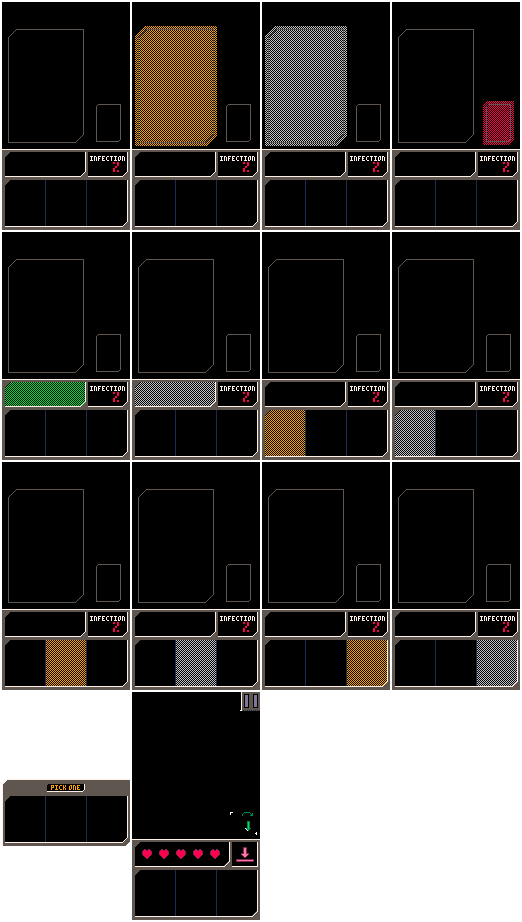
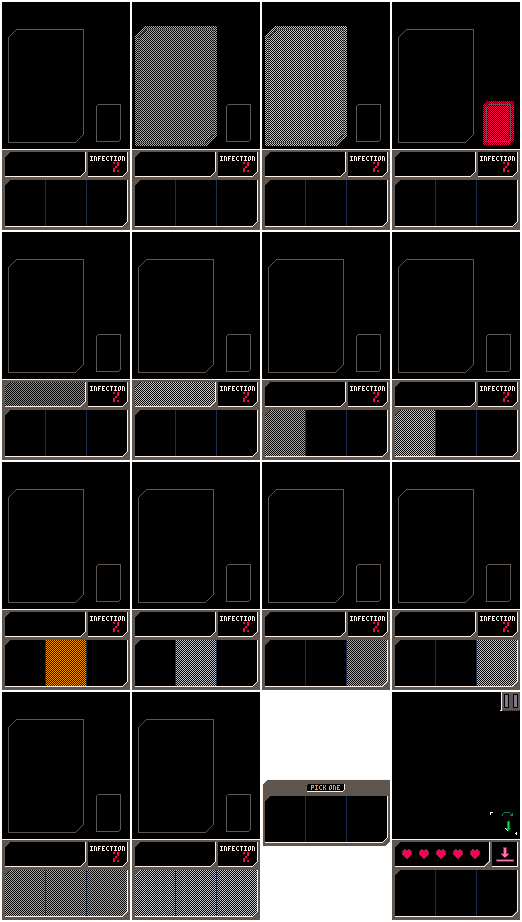
Swipe gestures replaced with drag-drop

Changed region(s): [[0.0, 0.7289, 1.0, 1.0], [0.4598, 0.7289, 0.4904, 0.7896]]

diff --git a/lib/src/game/engine/RenderingEngine.cpp b/lib/src/game/engine/RenderingEngine.cpp
@@ -294,6 +294,18 @@ void RenderingEngine::operator()(const AnimationHeal& a)
     window.draw(sprite);
 }
 
+void RenderingEngine::operator()(const AnimationReturnDraggedMainCard& a)
+{
+    const auto animationOffset =
+        (a.origin - getMainCardOffset()) * Easing::easeInOut(1.f - a.perc);
+    const auto scale = std::lerp(0.5f, 1.f, Easing::easeInOut(a.perc));
+
+    if (scene.deck.size() > 1)
+        renderCard(*(++scene.deck.begin()), getMainCardOffset());
+    renderCard(
+        scene.deck.front(), getMainCardOffset() + animationOffset, scale);
+}
+
 dgm::Camera RenderingEngine::createFullscreenCamera(
     const sf::Vector2f& currentResolution,
     const sf::Vector2f& desiredResolution)
@@ -331,6 +343,18 @@ dgm::Camera RenderingEngine::createFullscreenCamera(
 
 void RenderingEngine::renderWorld()
 {
+    const auto draggedInventoryCardIdx =
+        scene.dragDrop.value_or(DragDrop {})
+            .inventoryIdx.value_or(std::numeric_limits<size_t>::max());
+
+    for (auto&& [idx, card] : std::ranges::views::enumerate(scene.inventory))
+    {
+        if (!card) continue;
+        if (draggedInventoryCardIdx == static_cast<size_t>(idx)) continue;
+
+        renderCard(card.value(), getNthInventoryCardOffset(idx), 1.f / 3.f);
+    }
+
     if (!scene.discard.empty())
     {
         renderCardBack(
@@ -343,17 +367,12 @@ void RenderingEngine::renderWorld()
 
     renderTopDeckCard();
 
-    for (auto&& [idx, card] : std::ranges::views::enumerate(scene.inventory))
+    if (draggedInventoryCardIdx != std::numeric_limits<size_t>::max())
     {
-        if (!card) continue;
-
         renderCard(
-            card.value(),
-            scene.dragDrop.value_or(DragDrop {}).inventoryIdx.value_or(-1)
-                    == static_cast<size_t>(idx)
-                ? scene.dragDrop.value_or(DragDrop {}).position
-                : getNthInventoryCardOffset(idx),
-            1.f / 3.f);
+            *scene.inventory[draggedInventoryCardIdx],
+            scene.dragDrop.value_or(DragDrop {}).position,
+            1 / 3.f);
     }
 
     renderBoosterChoice();
@@ -442,7 +461,11 @@ void RenderingEngine::renderTopDeckCard()
     }
     else if (!scene.deck.empty())
     {
-        renderCard(scene.deck.front(), getMainCardOffset());
+        const auto isDraggingMainCard =
+            scene.dragDrop.value_or({}).draggingMainCard;
+        const auto offset =
+            isDraggingMainCard ? scene.dragDrop->position : getMainCardOffset();
+        renderCard(scene.deck.front(), offset, isDraggingMainCard ? 0.5f : 1.f);
     }
 }
 
@@ -469,13 +492,25 @@ void RenderingEngine::renderBoosterChoice()
 BackgroundType RenderingEngine::getAppropriateBackgroundType() const
 {
     const auto dragDrop = scene.dragDrop.value_or(DragDrop {});
-    const auto isDragRelevant = dragDrop.inventoryIdx.has_value();
     const auto dragPosition = dragDrop.position;
     const auto&& draggedCard =
         scene.inventory[dragDrop.inventoryIdx.value_or(0)].value_or(
             CardBuilder::createCard(CardType::Empty));
 
-    if (!isDragRelevant) return BackgroundType::Plain;
+    if (dragDrop.draggingMainCard)
+    {
+        if (dgm::Collision::basic(scene.trashBody, dragPosition))
+        {
+            return BackgroundType::Trash;
+        }
+        else if (dgm::Collision::basic(scene.wholeInventoryBody, dragPosition))
+        {
+            return scene.canTakeCard ? BackgroundType::InventoryWhole
+                                     : BackgroundType::InventoryWholeGreyed;
+        }
+
+        return BackgroundType::Plain;
+    }
 
     if (dgm::Collision::basic(scene.mainCardBody, dragPosition))
     {
@@ -491,7 +526,6 @@ BackgroundType RenderingEngine::getAppropriateBackgroundType() const
     }
     else if (dgm::Collision::basic(scene.trashBody, dragPosition))
     {
-
         return BackgroundType::Trash;
     }
 

diff --git a/lib/src/game/engine/GameRulesEngine.cpp b/lib/src/game/engine/GameRulesEngine.cpp
@@ -387,7 +387,8 @@ void GameRulesEngine::handleTake()
     else
     {
         audioEngine.playSound(SoundId::Error);
-        scene.activeAnimation = AnimationInvalidOperation();
+        scene.activeAnimation =
+            AnimationReturnDraggedMainCard(scene.dragDrop->position);
     }
 }
 
@@ -440,16 +441,14 @@ void GameRulesEngine::handleDragEnded()
 
     if (scene.dragDrop->draggingMainCard)
     {
-        const auto dir =
-            scene.dragDrop->position - scene.dragDrop->initialPosition;
-
-        const bool swipedDown = dir.y > 0.f && dir.y > std::abs(dir.x);
-        const bool swipedRight = dir.x > 0.f && dir.x > std::abs(dir.y);
-        if (swipedDown)
-            handleTake();
-        else if (swipedRight)
+        if (dgm::Collision::basic(scene.trashBody, scene.dragDrop->position))
             handleSkip();
-
+        else if (dgm::Collision::basic(
+                     scene.wholeInventoryBody, scene.dragDrop->position))
+            handleTake();
+        else
+            scene.activeAnimation =
+                AnimationReturnDraggedMainCard(scene.dragDrop->position);
         return;
     }
 
@@ -628,7 +627,9 @@ GameRulesEngine::getEventAfterAnimationEnded(const Animation& animation)
             [](const AnimationTrashMainCard&) -> std::optional<GameEvent>
             { return MainCardTrashedGameEvent(); },
             [](const AnimationHeal&) -> std::optional<GameEvent>
-            { return std::nullopt; } },
+            { return std::nullopt; },
+            [](const AnimationReturnDraggedMainCard&)
+                -> std::optional<GameEvent> { return std::nullopt; } },
         animation);
 }
 

diff --git a/lib/private_include/localization/EnLocalization.hpp b/lib/private_include/localization/EnLocalization.hpp
@@ -83,13 +83,21 @@ const std::map<StringId, StringViewType> EN_LOCALIZATION = {
     // How to play
     { Prev, "prev" },
     { Next, "next" },
-    { SkipText, "swipe right to skip card you can't deal with right now." },
+    { SkipText,
+      "drag the main card over discard to skip it. beware - enemies might "
+      "attack you "
+      "when they are skipped!" },
     { TakeText,
-      "swipe down to take card into your inventory. some cards automatically "
-      "combine if there is no space left." },
+      "drag the main card over your inventory to pick it up. certain cards "
+      "might "
+      "automatically combine if there is no space left." },
     { InventoryText,
       "you can combine cards in your inventory, use them on the main card, "
       "heal yourself, or put the inventory card back into deck." },
     { VaccineText,
       "find and use the vaccine on yourself to heal the infection!" },
+    { DiamondsText,
+      "diamonds on weapons indicate damage, amount of hitpoints healed on "
+      "healing cards and both health and damage for monsters. damaging a "
+      "monster will reduce the damage it can deal!" },
 };

diff --git a/lib/include/game/animations/Animations.hpp b/lib/include/game/animations/Animations.hpp
@@ -153,6 +153,16 @@ struct [[nodiscard]] AnimationHeal final : AnimationBase
     }
 };
 
+struct [[nodiscard]] AnimationReturnDraggedMainCard final : AnimationBase
+{
+    sf::Vector2f origin;
+
+    explicit AnimationReturnDraggedMainCard(const sf::Vector2f& origin)
+        : origin(origin)
+    {
+    }
+};
+
 using Animation = std::variant<
     AnimationCardToDiscard,
     AnimationCardTransform,
@@ -167,4 +177,5 @@ using Animation = std::variant<
     AnimationReturnInventoryToDeck,
     AnimationTakeCard,
     AnimationTrashMainCard,
-    AnimationHeal>;
+    AnimationHeal,
+    AnimationReturnDraggedMainCard>;

diff --git a/lib/include/game/definitions/Scene.hpp b/lib/include/game/definitions/Scene.hpp
@@ -65,6 +65,7 @@ struct [[nodiscard]] Scene final
     dgm::Rect mainCardBody = dgm::Rect(sf::Vector2f { 6.f, 27.f }, CARD_SIZE);
     dgm::Rect healthbarBody = dgm::Rect({ 3.f, 150.f }, { 80.f, 24.f });
     dgm::Rect trashBody = dgm::Rect({ 94.f, 102.f }, CARD_SIZE / 3.f);
+    dgm::Rect wholeInventoryBody = dgm::Rect({ 3.f, 178.f }, { 123.f, 47.f });
     std::array<dgm::Rect, 3u> inventoryBodies = {
         dgm::Rect(getNthInventoryCardOffset(0), CARD_SIZE / 3.f),
         dgm::Rect(getNthInventoryCardOffset(1), CARD_SIZE / 3.f),

diff --git a/lib/include/game/engine/RenderingEngine.hpp b/lib/include/game/engine/RenderingEngine.hpp
@@ -76,6 +76,8 @@ public:
 
     void operator()(const AnimationHeal& a);
 
+    void operator()(const AnimationReturnDraggedMainCard& a);
+
 public:
     /**
      * \brief Create fullscreen camera with a fixed resolution and aspect ratio

diff --git a/lib/include/game/enums/BackgroundType.hpp b/lib/include/game/enums/BackgroundType.hpp
@@ -14,5 +14,7 @@ enum class [[nodiscard]] BackgroundType
     Inventory2Greyed,
     Inventory3,
     Inventory3Greyed,
+    InventoryWhole,
+    InventoryWholeGreyed,
     PickOne,
 };

diff --git a/lib/include/strings/StringId.hpp b/lib/include/strings/StringId.hpp
@@ -80,6 +80,7 @@ enum class [[nodiscard]] StringId
     TakeText,
     InventoryText,
     VaccineText,
+    DiamondsText,
 
     MaxId, // Make sure this one is always the last!
 };
